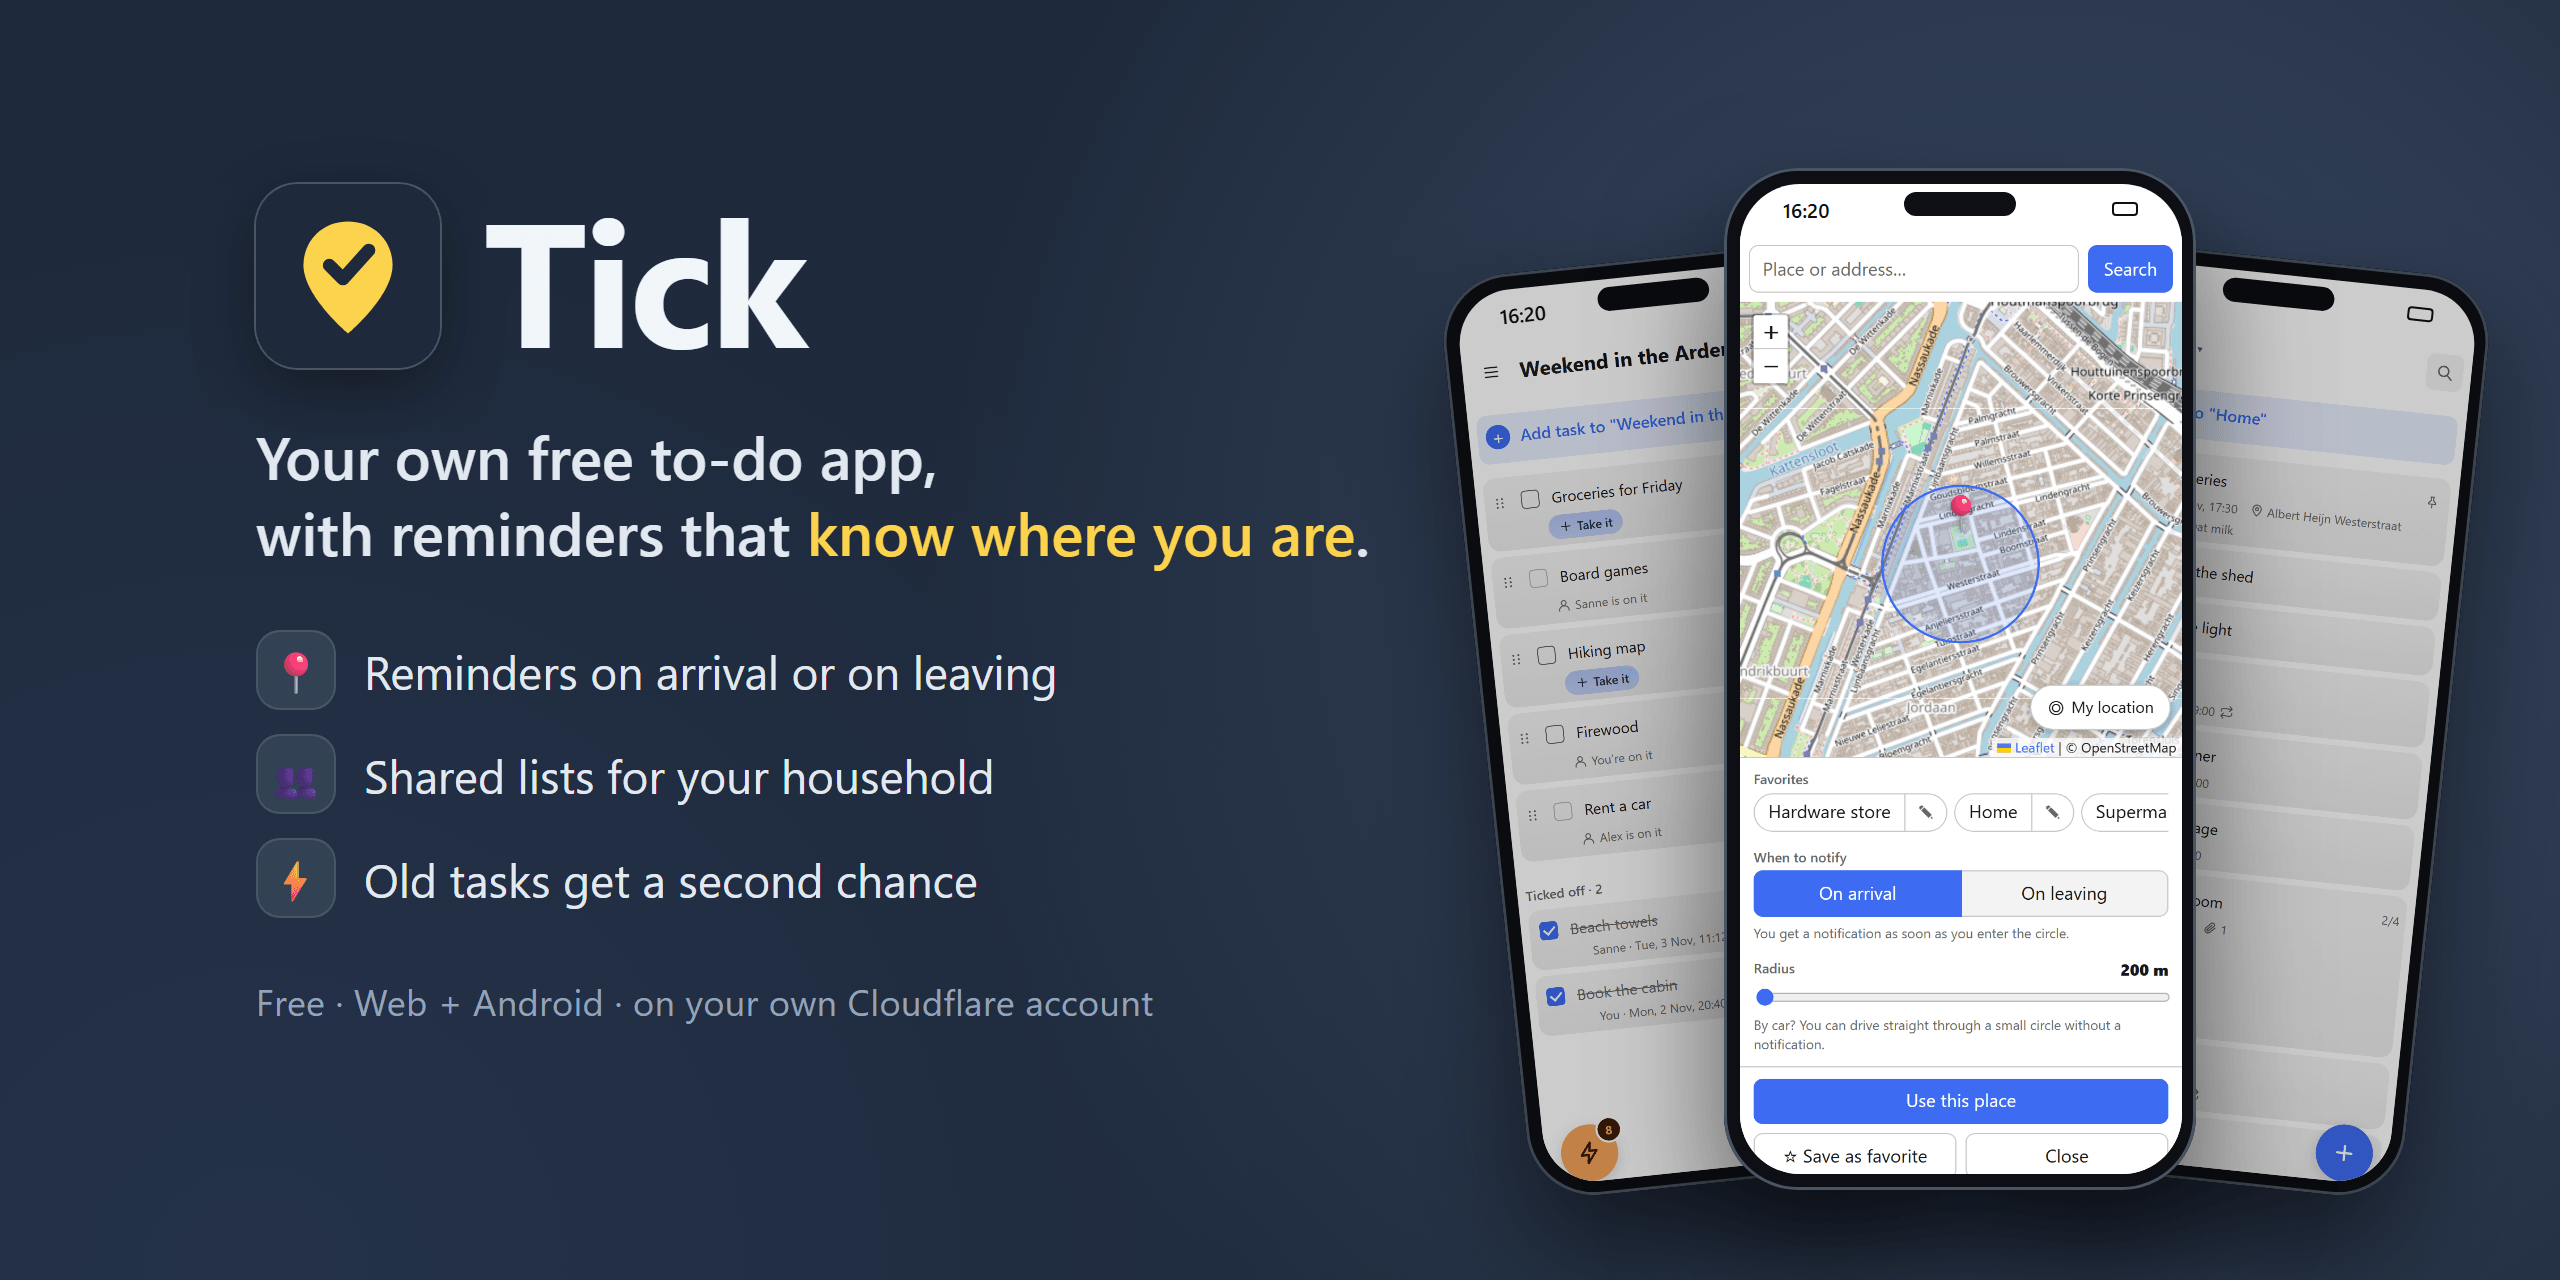
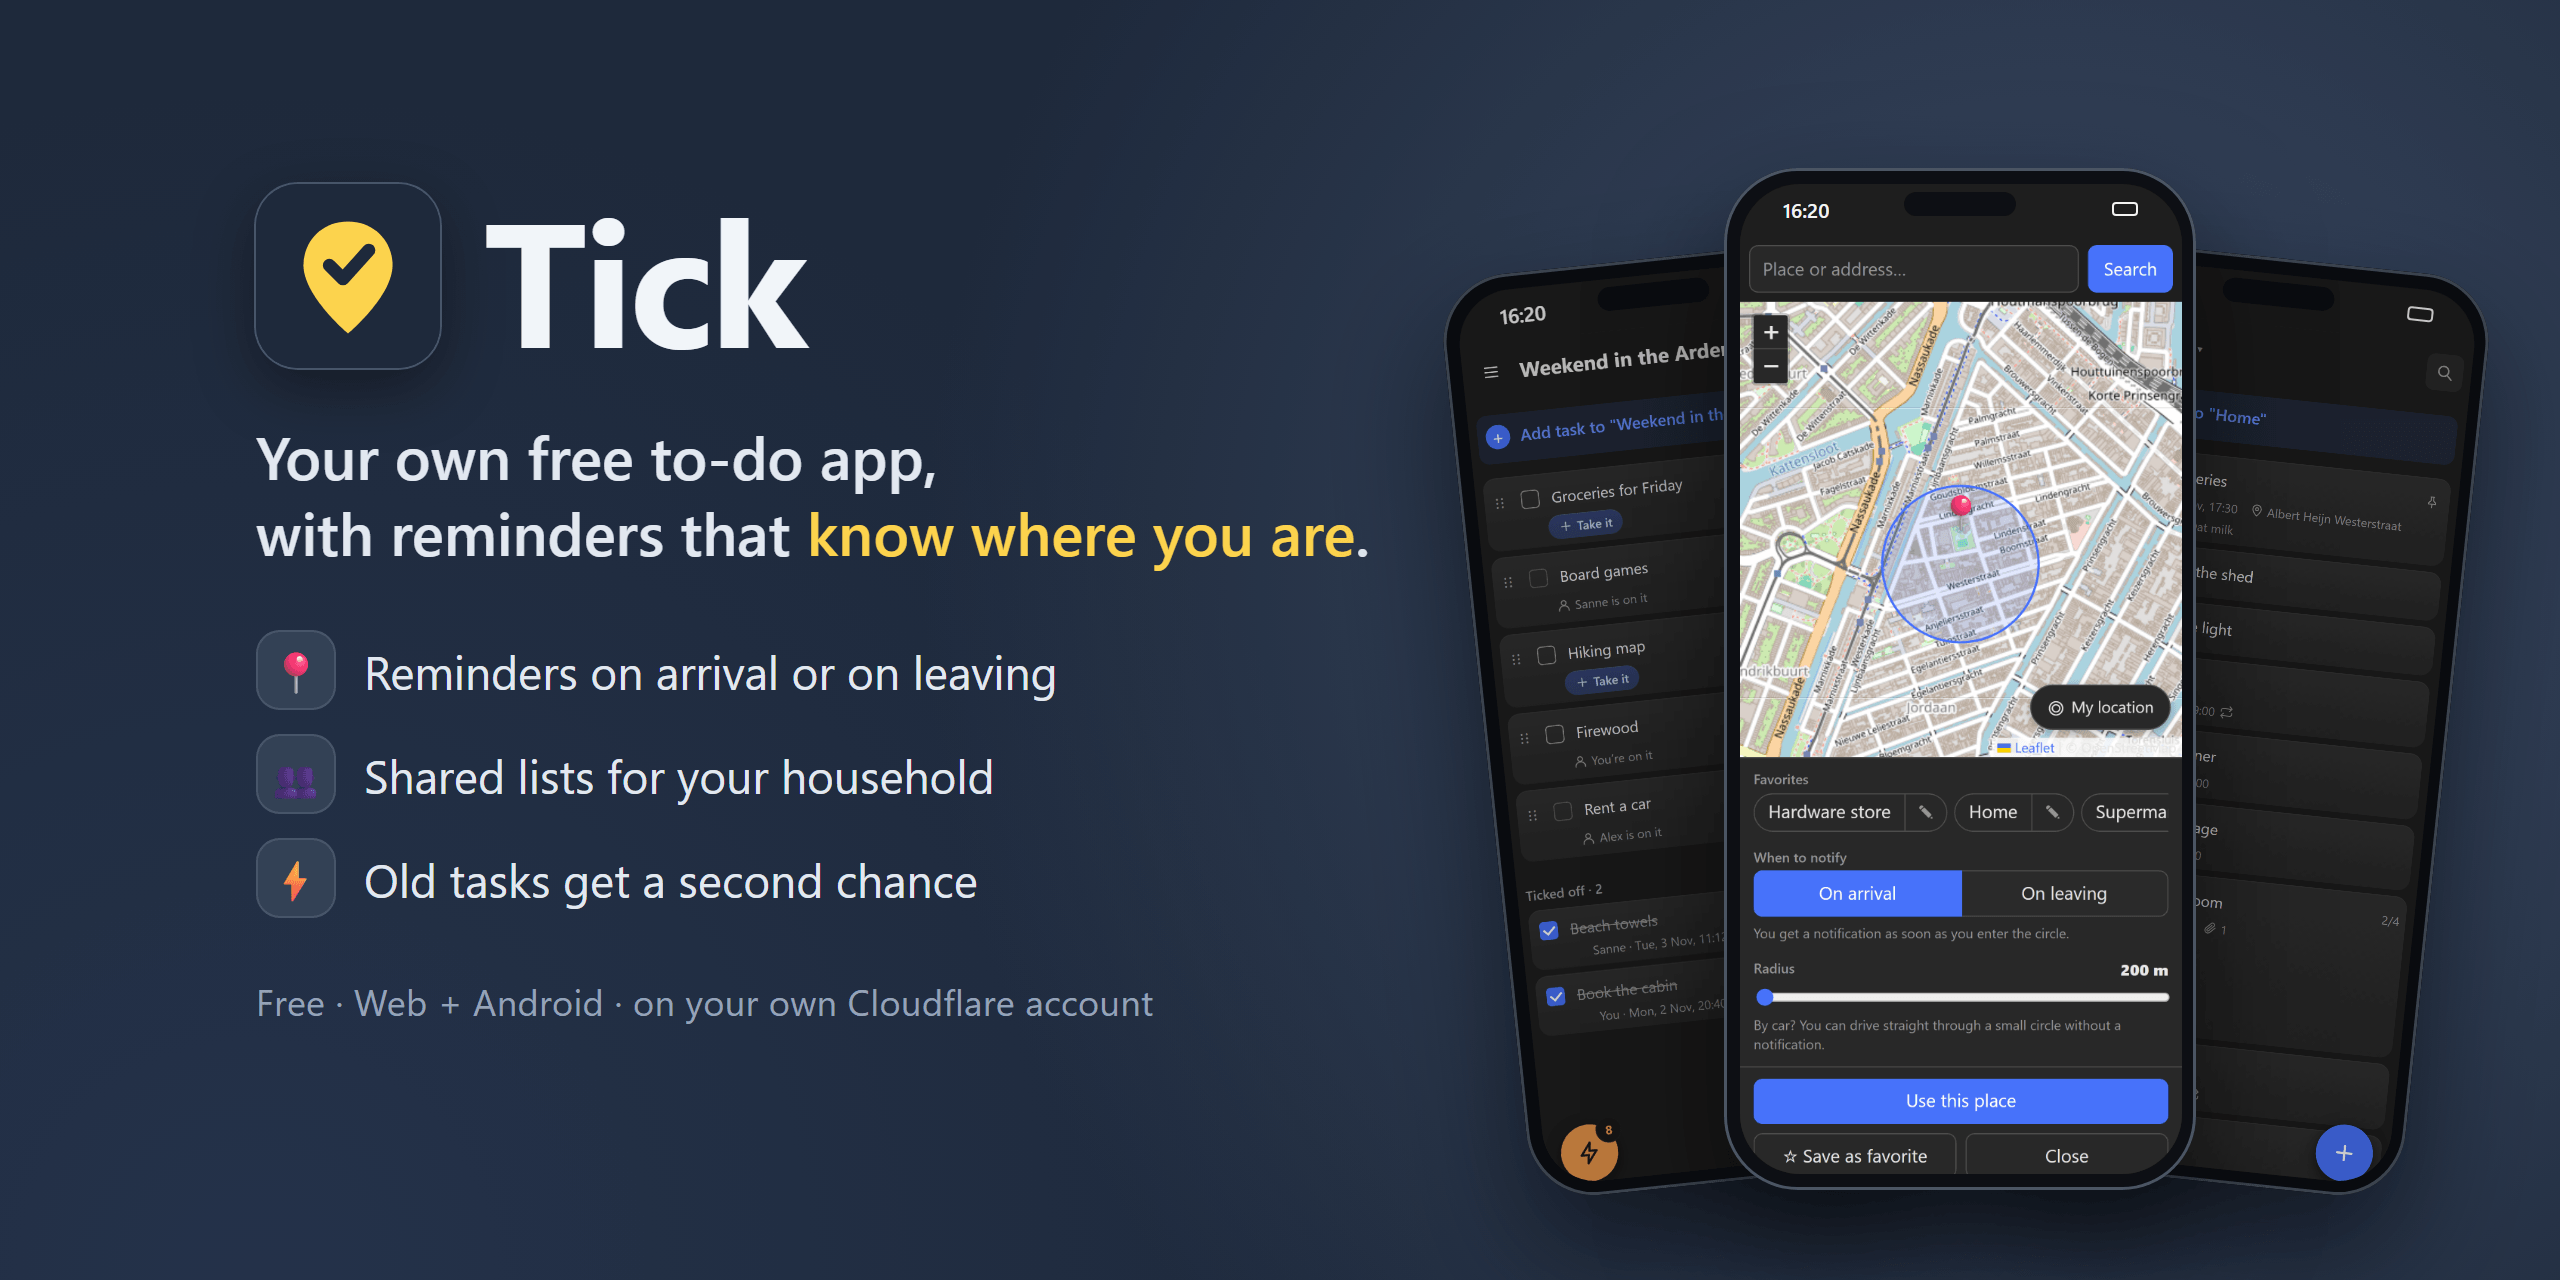
Social preview: donkere schermen, passend bij de README

Changed region(s): [[0.5625, 0.125, 0.9688, 0.9375]]

diff --git a/docs/social-preview.html b/docs/social-preview.html
@@ -36,9 +36,9 @@
   /* Phones like in the README: dark frame, notch, status bar, rounded screen */
   .phone { position: absolute; width: 214px; aspect-ratio: 390 / 844; background: #0d0f14; border-radius: 34px; padding: 7.5px;
     box-shadow: inset 0 0 0 1.5px #4b5563, 0 28px 60px rgb(0 0 0 / .55); }
-  .phone .scr { width: 100%; height: 100%; border-radius: 27px; overflow: hidden; background: #fff; }
+  .phone .scr { width: 100%; height: 100%; border-radius: 27px; overflow: hidden; background: #1e1e1e; }
   .phone .bar { height: 26px; display: flex; align-items: center; justify-content: space-between; padding: 0 22px;
-    font: 600 10px/1 "Segoe UI", system-ui, sans-serif; color: #111; }
+    font: 600 10px/1 "Segoe UI", system-ui, sans-serif; color: #f2f2f2; }
   .phone .bar i { width: 13px; height: 7px; border: 1.5px solid currentColor; border-radius: 2px; }
   .phone img { display: block; width: 100%; }
   .phone::after { content: ""; position: absolute; top: 12px; left: 50%; translate: -50% 0; width: 56px; height: 12px;
@@ -60,8 +60,8 @@
     </ul>
     <p class="small">Free · Web + Android · on your own Cloudflare account</p>
   </div>
-  <div class="phone back-l"><div class="scr"><div class="bar"><span>16:20</span><i></i></div><img src="screenshots/src/raw/m-shared-list-light.png" alt=""></div></div>
-  <div class="phone back-r"><div class="scr"><div class="bar"><span>16:20</span><i></i></div><img src="screenshots/src/raw/m-home-light.png" alt=""></div></div>
-  <div class="phone front"><div class="scr"><div class="bar"><span>16:20</span><i></i></div><img src="screenshots/src/raw/m-location-light.png" alt=""></div></div>
+  <div class="phone back-l"><div class="scr"><div class="bar"><span>16:20</span><i></i></div><img src="screenshots/src/raw/m-shared-list-dark.png" alt=""></div></div>
+  <div class="phone back-r"><div class="scr"><div class="bar"><span>16:20</span><i></i></div><img src="screenshots/src/raw/m-home-dark.png" alt=""></div></div>
+  <div class="phone front"><div class="scr"><div class="bar"><span>16:20</span><i></i></div><img src="screenshots/src/raw/m-location-dark.png" alt=""></div></div>
 </body>
 </html>
